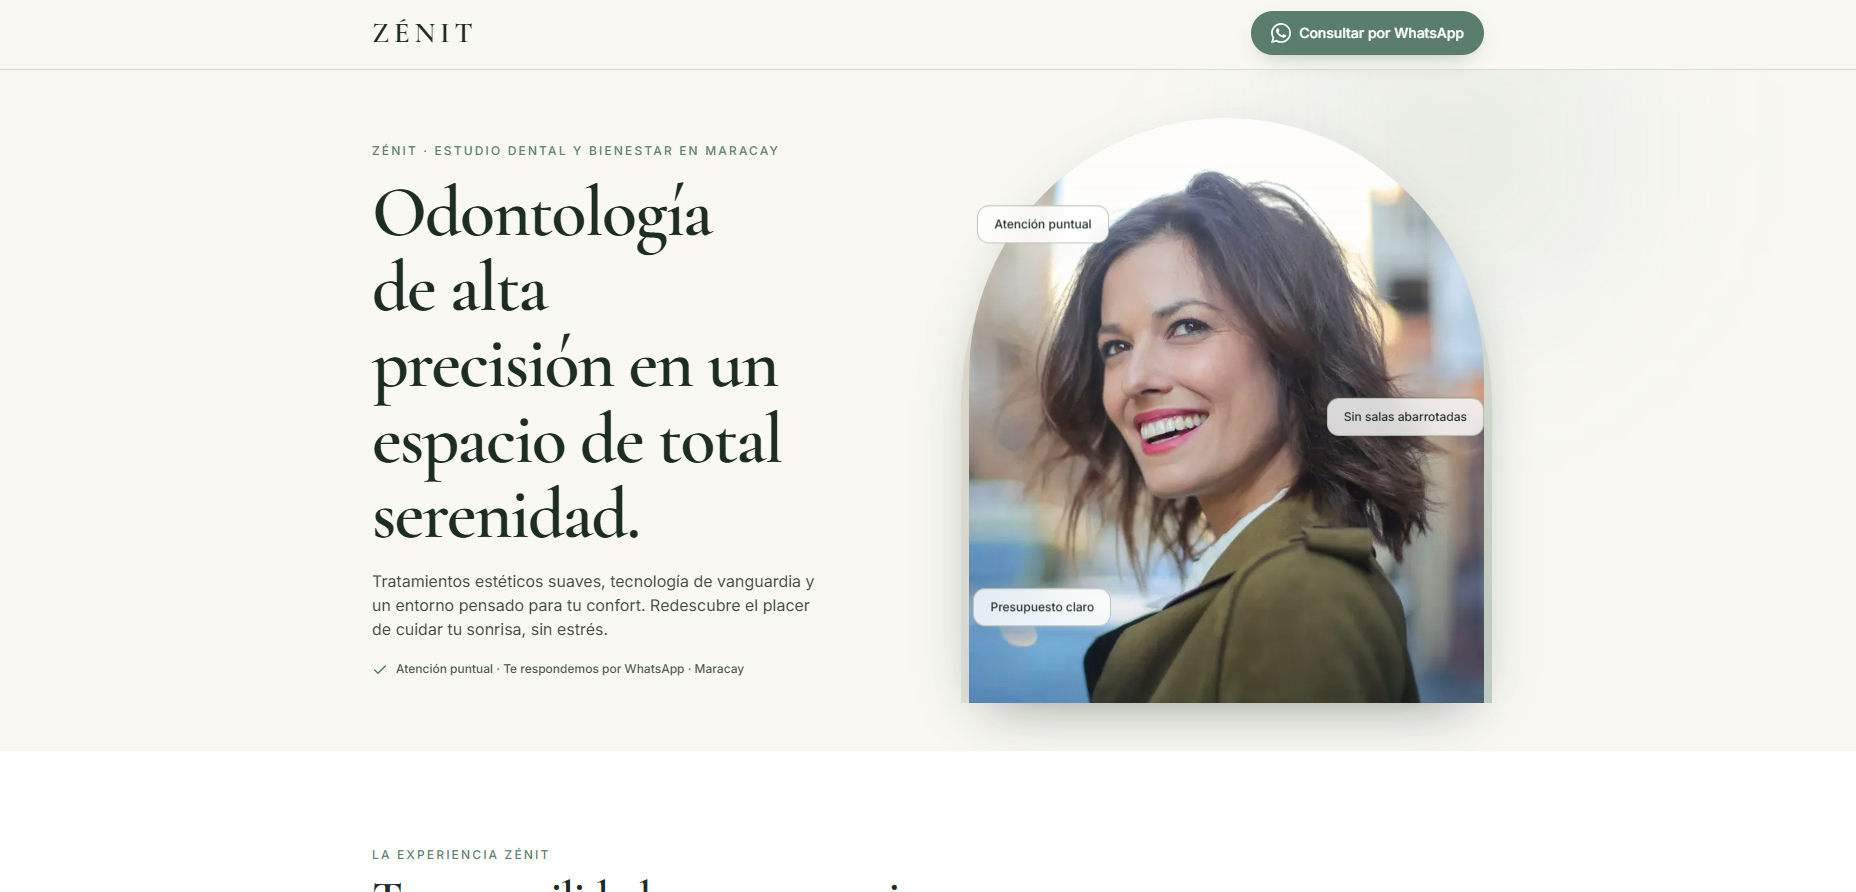
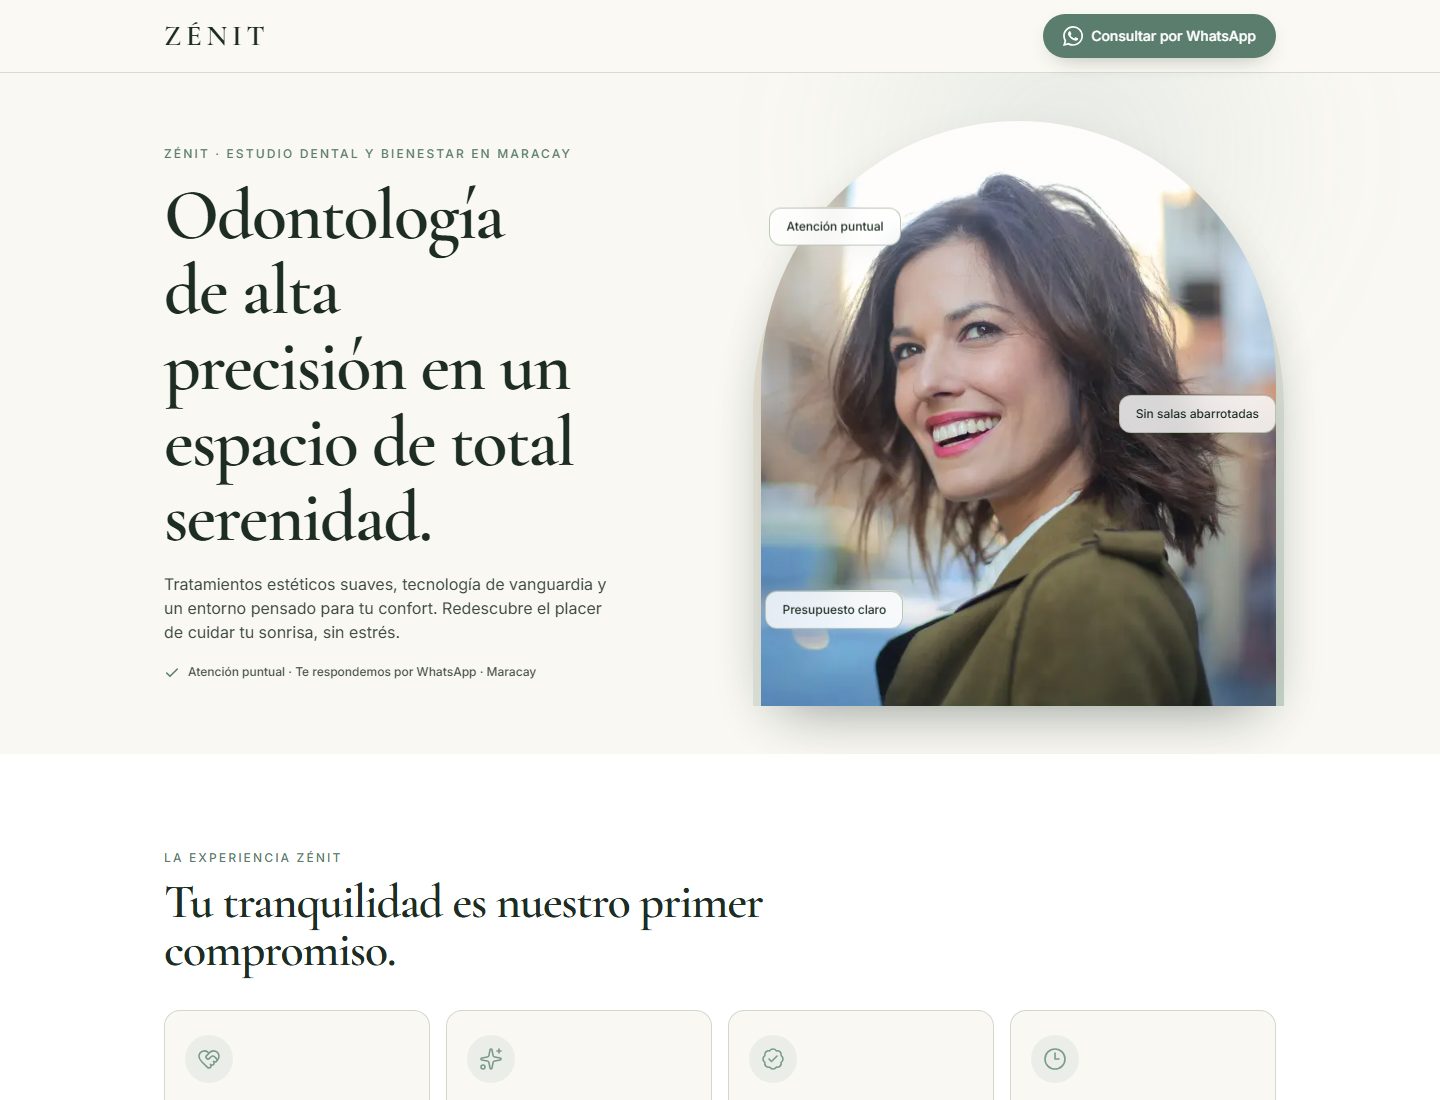
Update 4.6 Arraigo Integration

diff --git a/app/lib/config.ts b/app/lib/config.ts
@@ -102,6 +102,19 @@ export const siteConfig = {
       featured: true,
     },
     {
+      id: "arraigo",
+      title: "Arraigo",
+      label: "Concepto de diseño" as "Concepto de diseño" | "Proyecto real",
+      description:
+        "Concepto inmobiliario en Caracas con inventario directo y una experiencia guiada que prioriza documentos, estructura y servicios verificados.",
+      type: "web" as "web" | "app",
+      screenshot: "/images/portafolio/arraigo-ss.png",
+      alt: "Captura del sitio de Arraigo Bienes Raíces, con su propuesta de inmuebles en Caracas",
+      url: "https://rs-arraigo.vercel.app",
+      ctaLabel: "Ver demo completa",
+      featured: true,
+    },
+    {
       id: "rinde",
       title: "RINDE",
       label: "Proyecto real" as "Concepto de diseño" | "Proyecto real",

diff --git a/app/components/Portfolio.tsx b/app/components/Portfolio.tsx
@@ -278,7 +278,7 @@ export default function Portfolio() {
         </ScrollReveal>
 
         {/* Grid */}
-        <div className="grid md:grid-cols-3 gap-6 items-stretch">
+        <div className="grid md:grid-cols-2 lg:grid-cols-4 gap-6 items-stretch">
           {siteConfig.projects.map((project, i) => (
             <ScrollReveal
               key={project.id}
